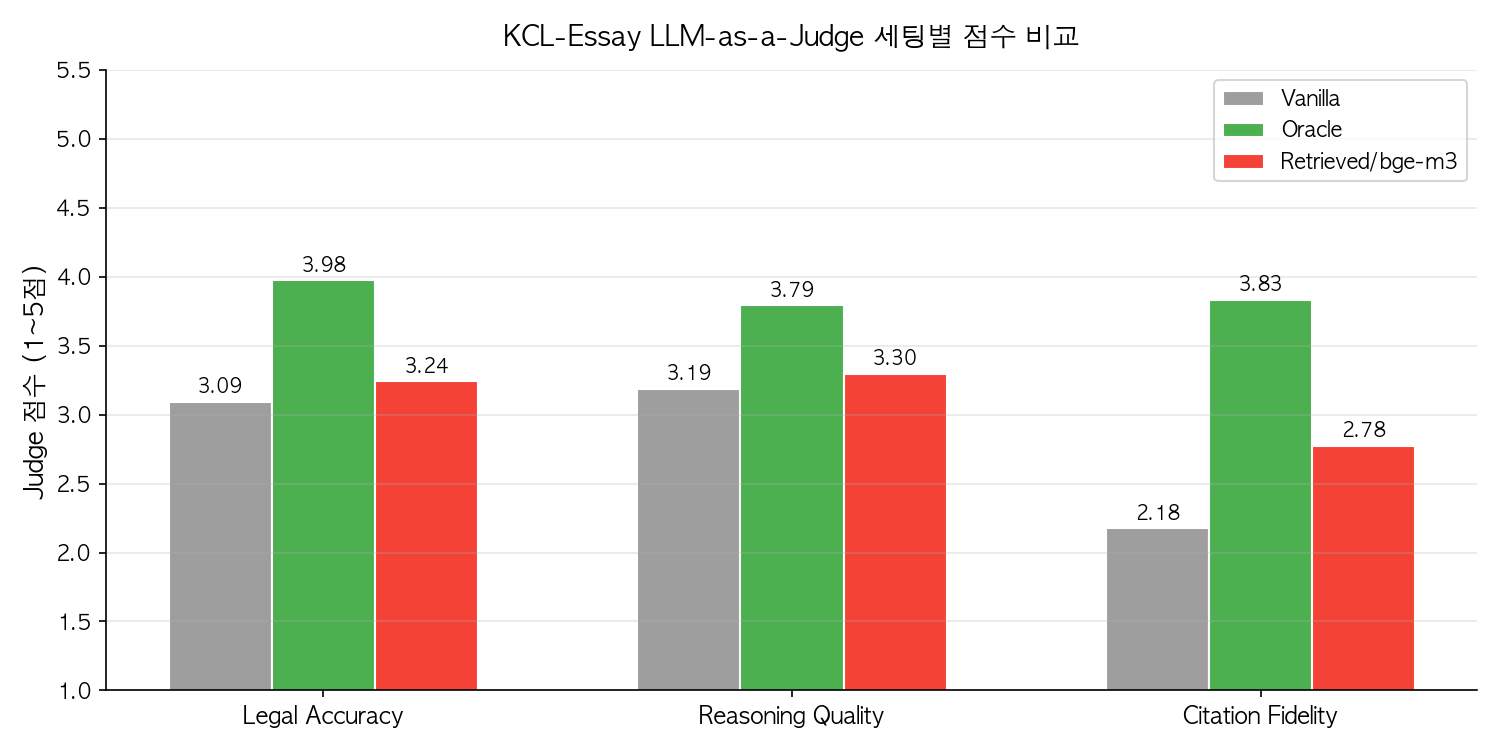
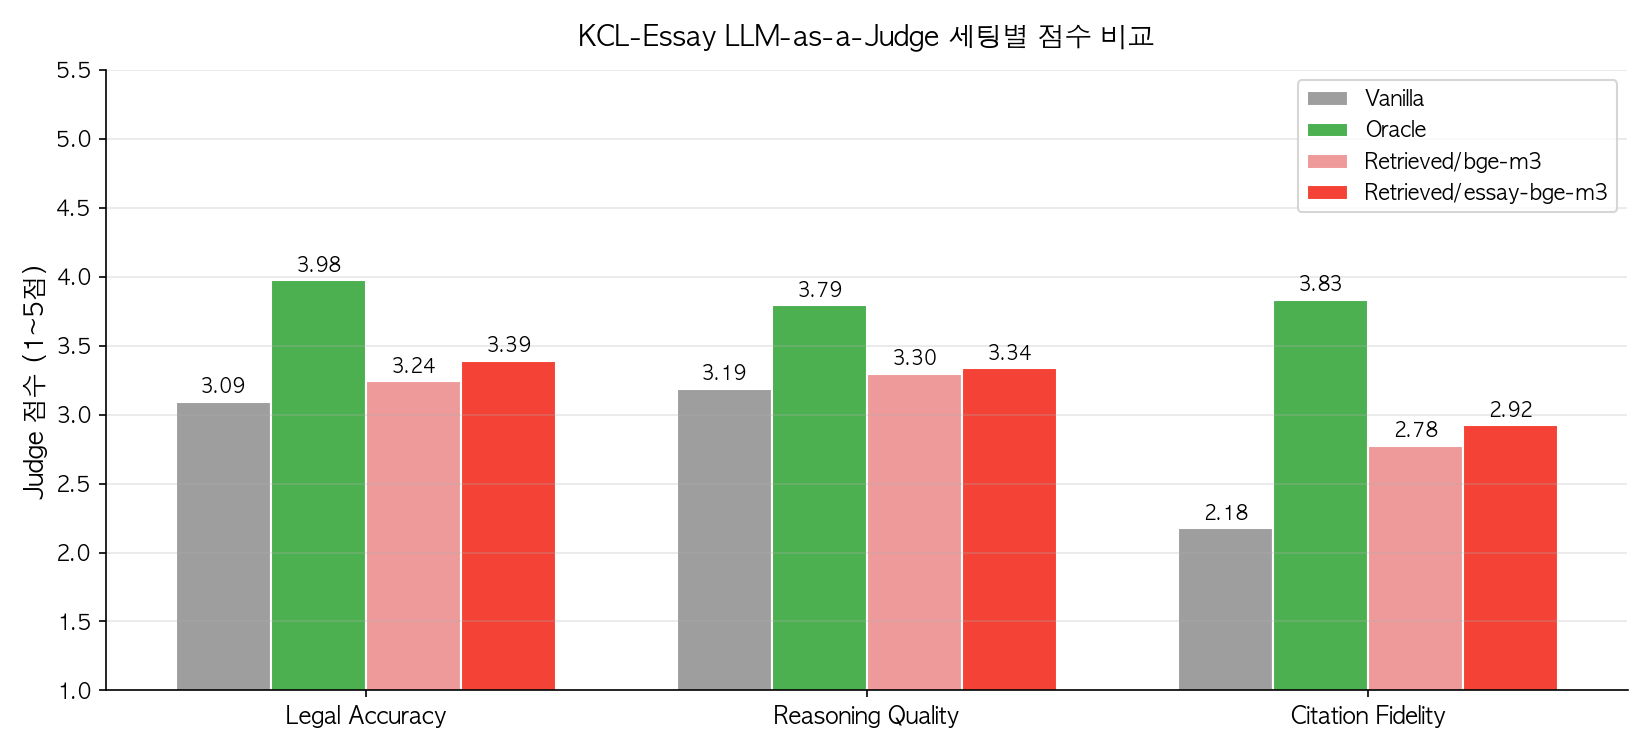
fix: re-index essay corpus with kcl_essay precedents; update fig6 and README
- scripts/08_index_essay_precedents.py: 에세이 전용 판례 459개 인덱싱
  (precedents_essay_bge_m3, bge-m3, MAX_PRECEDENT_CHARS=120,000)
- scripts/07_run_essay_experiments.py: Retrieved 신버전(essay-bge-m3) 추가
  가정 주석 명시: 0개 판례 문제 → Vanilla 동작, 긴 판례 → 절단(청킹 없음)
- src/retrieval/retriever.py: search()에 table 파라미터 추가
- src/db/schema.sql: precedents_essay_bge_m3 테이블 정의 추가
- results/fig6_essay_judge_scores.png: 4개 세팅으로 재생성
- README: 에세이 섹션에 essay-bge-m3 결과 행 추가 (+0.11p 향상 인사이트)
- ERROR_ANALYSIS.md: docs/ → 루트로 이동 (docs/ gitignore 적용)

diff --git a/scripts/08_index_essay_precedents.py b/scripts/08_index_essay_precedents.py
@@ -1,0 +1,160 @@
+"""
+에세이 판례 인덱싱 스크립트
+
+kcl_essay 데이터셋의 판례를 precedents_essay_bge_m3 테이블에 인덱싱.
+- 중복 제거: 동일 판례 ID(clean_id)는 최초 1개만 저장
+- 긴 판례: 청킹 없이 MAX_PRECEDENT_CHARS=120,000으로 절단 (essay_judge.py Oracle과 동일 기준)
+- Recall@k 계산 불필요 (에세이는 LLM-as-a-Judge 평가)
+"""
+import json
+import os
+import sys
+
+sys.path.insert(0, os.path.join(os.path.dirname(__file__), ".."))
+
+from tqdm import tqdm
+from datasets import load_dataset
+from pgvector.psycopg2 import register_vector
+
+from src.db.client import get_connection
+from src.embeddings.encoder import encode_batch
+
+# 가정: 긴 판례는 청킹 없이 MAX_PRECEDENT_CHARS로 절단 (essay_judge.py와 동일 기준)
+MAX_PRECEDENT_CHARS = 120_000
+
+TABLE = "precedents_essay_bge_m3"
+MODEL_NAME = "bge-m3"
+
+
+def create_table():
+    """precedents_essay_bge_m3 테이블 생성"""
+    with get_connection() as conn:
+        with conn.cursor() as cur:
+            cur.execute("""
+                CREATE TABLE IF NOT EXISTS precedents_essay_bge_m3 (
+                    id           SERIAL PRIMARY KEY,
+                    precedent_id TEXT NOT NULL UNIQUE,
+                    question_id  TEXT,
+                    subject      TEXT,
+                    content      TEXT NOT NULL,
+                    embedding    VECTOR(1024)
+                )
+            """)
+        conn.commit()
+    print(f"테이블 {TABLE} 준비 완료")
+
+
+def _extract_subject(meta: str) -> str:
+    if "민사" in meta:
+        return "민사법"
+    if "형사" in meta:
+        return "형사법"
+    if "공법" in meta or "헌법" in meta or "행정" in meta:
+        return "공법"
+    return "기타"
+
+
+def parse_essay_precedents(ds) -> list[dict]:
+    """
+    kcl_essay 데이터셋에서 고유 판례 파싱.
+    동일 판례 ID가 여러 문제에 등장하면 최초 1개만 저장.
+    content는 MAX_PRECEDENT_CHARS로 절단.
+    """
+    seen_ids: set[str] = set()
+    precedents = []
+
+    for row in ds:
+        meta = row.get("meta", "")
+        subject = _extract_subject(meta)
+
+        for item in row.get("supporting_precedents", []):
+            if isinstance(item, str):
+                try:
+                    prec_dict = json.loads(item)
+                except json.JSONDecodeError:
+                    prec_dict = {"알수없음": item}
+            else:
+                prec_dict = item
+
+            for prec_id, content in prec_dict.items():
+                # "[대법원 2018다24349]" → "대법원 2018다24349"
+                clean_id = prec_id.strip("[]").strip()
+
+                if clean_id in seen_ids:
+                    continue  # 중복 스킵
+
+                seen_ids.add(clean_id)
+
+                # 가정: 청킹 없이 MAX_PRECEDENT_CHARS로 절단
+                content_trunc = content[:MAX_PRECEDENT_CHARS]
+
+                precedents.append({
+                    "precedent_id": clean_id,
+                    "question_id": meta,  # 최초 등장 문제의 meta
+                    "subject": subject,
+                    "content": content_trunc,
+                })
+
+    return precedents
+
+
+def index_precedents(precedents: list[dict]):
+    """판례 임베딩 생성 후 DB 삽입 (이미 인덱싱된 ID 스킵)"""
+    with get_connection() as conn:
+        register_vector(conn)
+        with conn.cursor() as cur:
+            cur.execute(f"SELECT precedent_id FROM {TABLE}")
+            existing_ids = {row[0] for row in cur.fetchall()}
+
+    to_index = [p for p in precedents if p["precedent_id"] not in existing_ids]
+    print(f"전체: {len(precedents)}, 스킵: {len(existing_ids)}, 인덱싱 대상: {len(to_index)}")
+
+    if not to_index:
+        print("이미 모두 인덱싱됨.")
+        return
+
+    # bge-m3, batch_size=4 (OOM 방지)
+    texts = [p["content"] for p in to_index]
+    print(f"bge-m3 임베딩 생성 중... ({len(texts)}개)")
+    embeddings = encode_batch(texts, MODEL_NAME, batch_size=4)
+
+    with get_connection() as conn:
+        register_vector(conn)
+        with conn.cursor() as cur:
+            for p, emb in tqdm(zip(to_index, embeddings), total=len(to_index), desc="DB 삽입"):
+                cur.execute(
+                    f"""
+                    INSERT INTO {TABLE} (precedent_id, question_id, subject, content, embedding)
+                    VALUES (%s, %s, %s, %s, %s)
+                    ON CONFLICT (precedent_id) DO NOTHING
+                    """,
+                    (p["precedent_id"], p["question_id"], p["subject"], p["content"], emb),
+                )
+        conn.commit()
+
+    print(f"인덱싱 완료: {len(to_index)}건")
+
+
+if __name__ == "__main__":
+    print("=" * 50)
+    print("에세이 판례 인덱싱 시작")
+    print("=" * 50)
+
+    create_table()
+
+    print("\nkcl_essay 데이터셋 로드 중...")
+    ds = load_dataset("lbox/kcl", "kcl_essay", trust_remote_code=True)["test"]
+    print(f"총 {len(ds)}개 에세이 문제 로드 완료")
+
+    precedents = parse_essay_precedents(ds)
+    print(f"고유 판례 수: {len(precedents)}")
+
+    # 통계
+    char_lens = [len(p["content"]) for p in precedents]
+    truncated = sum(1 for p in precedents if len(p["content"]) == MAX_PRECEDENT_CHARS)
+    print(f"평균 길이: {sum(char_lens) // len(char_lens):,}자, "
+          f"최대: {max(char_lens):,}자, "
+          f"절단된 판례: {truncated}개")
+
+    index_precedents(precedents)
+    print("\n완료!")

diff --git a/scripts/07_run_essay_experiments.py b/scripts/07_run_essay_experiments.py
@@ -1,8 +1,16 @@
 """
 작업 2: 에세이 태스크 LLM-as-a-Judge 실행 스크립트
 
-3개 세팅(Vanilla / Oracle / Retrieved/bge-m3) × 169문제 에세이 생성 후
-gpt-4o-mini Judge가 Legal Accuracy / Reasoning Quality / Citation Fidelity 채점.
+세팅:
+  - Vanilla: 판례 없이 에세이 생성
+  - Oracle: 정답 판례 직접 주입
+  - Retrieved/bge-m3: MCQA 코퍼스(precedents_bge_m3)로 검색 (구버전)
+  - Retrieved/essay-bge-m3: 에세이 코퍼스(precedents_essay_bge_m3)로 검색 (신버전)
+
+Retrieved 세팅 가정:
+  1. supporting_precedents가 0개인 문제 → 판례 없이 Vanilla처럼 생성
+     (관련 판례가 없는 문제에 임의 판례를 주입하는 것을 방지)
+  2. 검색 결과가 없어도 스킵하지 않고 Vanilla로 대체하여 169문제 전체 실행
 """
 import os
 import sys
@@ -20,13 +28,32 @@ from src.evaluation.essay_judge import (
 )
 from src.retrieval.retriever import search
 
+# 에세이 코퍼스 전용 테이블 (신버전 Retrieved)
+ESSAY_TABLE = "precedents_essay_bge_m3"
 
-def run_setting(setting: str, ds, model_name: str | None = None):
+
+def run_setting(
+    setting: str,
+    ds,
+    model_name: str | None = None,
+    search_table: str | None = None,
+    result_model_name: str | None = None,
+):
+    """
+    setting: vanilla / oracle / retrieved
+    model_name: 임베딩 모델 (검색 시 encode()에 사용)
+    search_table: 검색 테이블 (None이면 model_name 기본 테이블)
+    result_model_name: essay_results에 저장할 model_name (None이면 model_name 사용)
+    """
+    actual_model_name = result_model_name or model_name
+
     print(f"\n{'='*50}")
-    print(f"세팅: {setting}" + (f" / {model_name}" if model_name else ""))
+    print(f"세팅: {setting}" + (f" / {actual_model_name}" if actual_model_name else ""))
+    if search_table:
+        print(f"검색 테이블: {search_table}")
     print(f"{'='*50}")
 
-    done = get_done_ids(setting, model_name)
+    done = get_done_ids(setting, actual_model_name)
     rows = [row for row in ds if row["meta"] not in done]
     print(f"완료: {len(done)}개, 남은 문제: {len(rows)}개\n")
 
@@ -42,8 +69,14 @@ def run_setting(setting: str, ds, model_name: str | None = None):
         elif setting == "oracle":
             context = _format_oracle_context(row["supporting_precedents"])
         else:  # retrieved
-            results = search(question[:500], model_name, top_k=5)
-            context = "\n\n---\n\n".join(r["content"] for r in results)
+            # 가정 1: supporting_precedents가 0개인 문제는 판례 없이 Vanilla처럼 생성
+            #          → 관련 판례가 없는 문제에 임의 판례를 주입하는 것을 방지
+            if not row.get("supporting_precedents"):
+                context = None
+            else:
+                results = search(question[:500], model_name, top_k=5, table=search_table)
+                # 가정 2: 검색 결과 없으면 Vanilla로 대체 (스킵 안 함)
+                context = "\n\n---\n\n".join(r["content"] for r in results) if results else None
 
         print(f"[{i}/{len(rows)}] {question_id} ({subject}) 생성 중...", end=" ", flush=True)
 
@@ -53,8 +86,8 @@ def run_setting(setting: str, ds, model_name: str | None = None):
         # Judge 평가
         scores = judge_essay(question, rubrics, essay)
 
-        # 저장
-        save_essay_result(setting, model_name, question_id, subject, essay, scores)
+        # 저장 (result_model_name으로 구버전/신버전 구분)
+        save_essay_result(setting, actual_model_name, question_id, subject, essay, scores)
 
         print(
             f"LA={scores['legal_accuracy']} RQ={scores['reasoning_quality']} "
@@ -105,7 +138,19 @@ def main():
 
     run_setting("vanilla", ds)
     run_setting("oracle", ds)
+
+    # 구버전 Retrieved: MCQA 코퍼스(precedents_bge_m3) 사용 — 이미 완료된 경우 스킵
     run_setting("retrieved", ds, model_name="bge-m3")
+
+    # 신버전 Retrieved: 에세이 전용 코퍼스(precedents_essay_bge_m3) 사용
+    # 08_index_essay_precedents.py 실행 후 이 세팅을 실행할 것
+    run_setting(
+        "retrieved",
+        ds,
+        model_name="bge-m3",
+        search_table=ESSAY_TABLE,
+        result_model_name="essay-bge-m3",
+    )
 
     print_summary()
 

diff --git a/scripts/04_analyze.py b/scripts/04_analyze.py
@@ -360,7 +360,8 @@ def load_essay_results() -> pd.DataFrame:
                        COUNT(*)                     AS n
                 FROM essay_results
                 GROUP BY setting, model_name
-                ORDER BY CASE setting WHEN 'vanilla' THEN 1 WHEN 'oracle' THEN 2 ELSE 3 END
+                ORDER BY CASE setting WHEN 'vanilla' THEN 1 WHEN 'oracle' THEN 2 ELSE 3 END,
+                         model_name
             """)
             rows = cur.fetchall()
             cols = [d[0] for d in cur.description]
@@ -402,19 +403,21 @@ def plot_essay_judge(essay_df: pd.DataFrame, filename: str):
     setting_colors = {
         "Vanilla": "#9E9E9E",
         "Oracle": "#4CAF50",
+        "Retrieved/bge-m3": "#EF9A9A",         # 구버전 (MCQA 코퍼스) — 연한 빨강
+        "Retrieved/essay-bge-m3": "#F44336",   # 신버전 (에세이 전용 코퍼스) — 진한 빨강
     }
     for label in essay_df["label"]:
         if label not in setting_colors:
-            setting_colors[label] = "#F44336"
+            setting_colors[label] = "#607D8B"
 
     labels = essay_df["label"].tolist()
     n_settings = len(labels)
     n_metrics = len(metrics)
     x = range(n_metrics)
-    width = 0.22
+    width = 0.19
     offsets = [(i - (n_settings - 1) / 2) * width for i in range(n_settings)]
 
-    fig, ax = plt.subplots(figsize=(10, 5))
+    fig, ax = plt.subplots(figsize=(11, 5))
     for i, (_, row) in enumerate(essay_df.iterrows()):
         vals = [float(row[m]) for m in metrics]
         color = setting_colors.get(row["label"], "#607D8B")

diff --git a/src/retrieval/retriever.py b/src/retrieval/retriever.py
@@ -10,12 +10,14 @@ from src.db.client import get_connection
 from src.embeddings.encoder import encode, get_table_name
 
 
-def search(question: str, model_name: str, top_k: int = 5) -> list[dict]:
+def search(question: str, model_name: str, top_k: int = 5, table: str = None) -> list[dict]:
     """
     질문 텍스트로 판례 벡터 검색
+    table: 검색할 테이블 (None이면 model_name 기본 테이블 사용)
     반환: [{"precedent_id": ..., "content": ..., "question_id": ..., "similarity": ...}, ...]
     """
-    table = get_table_name(model_name)
+    if table is None:
+        table = get_table_name(model_name)
     query_vec = encode(question, model_name)
 
     with get_connection() as conn:

diff --git a/README.md b/README.md
@@ -115,12 +115,14 @@ gpt-4o-mini Judge가 3가지 기준(1~5점)으로 채점.
 |---------|:--------------:|:-----------------:|:-----------------:|:-------:|
 | Vanilla | 3.09 | 3.19 | 2.18 | **2.82** |
 | Oracle | 3.98 | 3.79 | 3.83 | **3.87** |
-| Retrieved/bge-m3 | 3.24 | 3.30 | 2.78 | **3.11** |
+| Retrieved/bge-m3 (구버전, MCQA 코퍼스) | 3.24 | 3.30 | 2.78 | **3.11** |
+| Retrieved/essay-bge-m3 (신버전, 에세이 전용) | 3.39 | 3.34 | 2.92 | **3.22** |
 
 - **Citation Fidelity 격차가 가장 큼** (Vanilla 2.18 → Oracle 3.83, +1.65점)
   판례가 없으면 LLM이 판례를 지어내거나(환각) 인용 자체를 피함
 - Legal Accuracy·Reasoning Quality는 세팅 간 차이가 상대적으로 작음 — 법적 논리 구성 자체는 판례 유무와 무관하게 어느 정도 유지됨
 - **MCQA 패턴과 동일**: Oracle이 압도적으로 좋고, Retrieved는 중간
+- **코드 검토에서 MCQA 코퍼스 혼용 발견** → 에세이 전용 코퍼스(kcl_essay 판례 459개)로 재인덱싱 후 +0.11p 향상 (3.11 → 3.22). 올바른 도메인 데이터를 인덱싱하는 것만으로도 측정 가능한 개선이 가능함을 확인.
 
 ---
 
